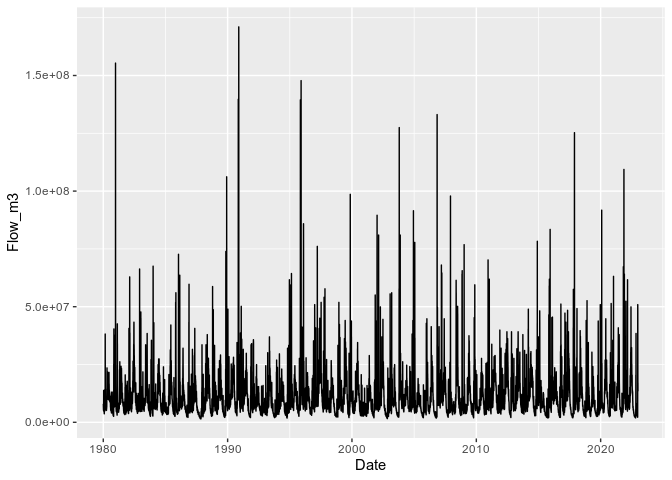
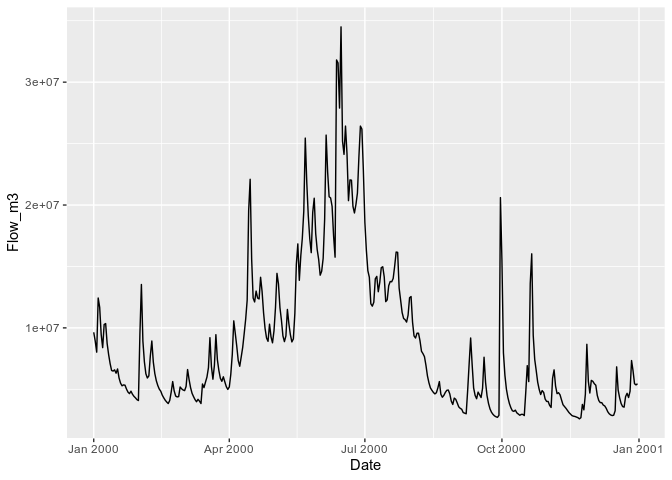
Readme

diff --git a/README.md b/README.md
@@ -26,29 +26,24 @@ Description of the parameters in this dataset can be viewed by calling
 the help `?bf_params_usgs`.
 
 ``` r
-head(bf_params_usgs)
-#>    site_no       AREA        Lb        X1           Wb  POR        ALPHA
-#> 1 01010000 3432960000 42195.004 30268.421    3899.4916 0.15 6.991589e-03
-#> 2 01010070  437760000 22947.464 15020.629 1426149.7464 0.15 4.496731e-09
-#> 3 01010500 6860800000 30622.345 16697.526    4599.4746 0.15 8.809516e-03
-#> 4 01011000 3783680000 24340.048 13850.519    7682.9840 0.15 8.504163e-03
-#> 5 01012515   33280000  7922.068  4911.786     731.9395 0.15 3.732992e-02
-#> 6 01012520    5196800  1997.463  1163.064     226.5779 0.15 1.105229e-02
-#>        BETA           Ks        Kb        Kz     Qthresh          Rs
-#> 1 17.891344 1.202191e+04 1346.6735 0.2265222 653322.0051 -0.11685527
-#> 2 21.445829 1.702129e+13  721.4984 0.1865955 100322.8547 -0.13534568
-#> 3 17.847130 1.170324e+04 1082.3061 0.1736640 638640.6117 -0.13472433
-#> 4  9.946623 7.715101e+03 1227.5351 0.1289749 606830.9261 -0.07401526
-#> 5  6.879007 2.742763e+02  542.6453 0.2205462  16621.7842 -0.08372559
-#> 6  2.208195 9.004372e+02 1368.8208 0.1592777    171.2829 -0.22792486
-#>           Rb1          Rb2        Prec Frac4Rise      Error
-#> 1 -0.06032012 -0.010385333 28873.40697      0.05 0.11905442
-#> 2 -0.06300632 -0.011841823  3425.65845      0.05 0.09712791
-#> 3 -0.05029289 -0.008377966 66511.60578      0.05 0.13351219
-#> 4 -0.03335920 -0.007215571 58192.14953      0.05 0.08186208
-#> 5 -0.07727862 -0.008515741    36.67901      0.05 0.05996996
-#> 6 -0.08109302 -0.008349912    24.46899      0.05 0.17642699
+library(magrittr)
+#library(flextable)
+
+# flextable(tail(bf_params_usgs)) %>% 
+#   colformat_num(big.mark=",", digits = 2, na_str = "N/A") %>% 
+#   autofit()
+
+knitr::kable(tail(bf_params_usgs), digits=2, format.args = list(scientific = FALSE))
 ```
+
+|       | site_no  |      AREA |       Lb |       X1 |      Wb |  POR | ALPHA |  BETA |     Ks |      Kb |   Kz |   Qthresh |    Rs |   Rb1 |   Rb2 |    Prec | Frac4Rise | Error |
+|:------|:---------|----------:|---------:|---------:|--------:|-----:|------:|------:|-------:|--------:|-----:|----------:|------:|------:|------:|--------:|----------:|------:|
+| 13203 | 50148890 | 242176000 | 34713.66 | 26804.42 | 1100.43 | 0.15 |  0.00 | 17.53 |  84.51 | 1520.39 | 0.33 | 269158.88 | -0.35 | -0.08 | -0.01 | 3889.35 |      0.05 |  0.03 |
+| 13204 | 50252000 |   1254400 |  1814.29 |   182.12 |   53.99 | 0.15 |  0.00 |  1.00 |  44.46 |  226.69 | 0.03 |     48.94 | -0.35 | -0.03 |  0.00 |   24.47 |      0.05 |  0.04 |
+| 13205 | 50274000 |   5964800 |  6519.25 |  1406.67 |   43.04 | 0.15 |  0.01 |  2.40 | 641.71 | 1083.45 | 0.05 |     97.88 | -0.35 | -0.04 |  0.00 |   24.47 |      0.05 |  0.05 |
+| 13206 | 50295000 |    947200 |   197.17 |   104.47 | 1037.47 | 0.15 |  0.00 |  1.00 |   1.73 |    3.91 | 0.04 |     48.94 | -0.35 | -0.03 |  0.00 |   24.47 |      0.05 |  0.02 |
+| 13207 | 50333500 |  13824000 |  7495.11 |     2.46 |   69.39 | 0.15 |  0.00 |  1.10 | 530.88 | 1001.58 | 0.01 |    509.93 | -0.76 | -0.33 | -0.33 |   24.47 |      0.05 |  0.00 |
+| 13208 | 50345000 |   5376000 |  3156.42 |   137.89 |   62.39 | 0.15 |  0.00 |  1.06 | 103.10 |  653.17 | 0.00 |     48.94 | -0.20 | -0.03 |  0.00 |   24.47 |      0.05 |  0.08 |
 
 Sites are in rows with identification number in the first column, the 16
 parameters values, and the error for the calibration.
@@ -82,17 +77,6 @@ a single USGS site and calculate the baseflow separation
 ``` r
 
 library(dataRetrieval)
-library(magrittr)
-library(dplyr)
-#> 
-#> Attaching package: 'dplyr'
-#> The following objects are masked from 'package:stats':
-#> 
-#>     filter, lag
-#> The following objects are masked from 'package:base':
-#> 
-#>     intersect, setdiff, setequal, union
-library(ggplot2)
 
 # SAUK RIVER NEAR SAUK, WA
 siteNumber <- "12189500"
@@ -102,8 +86,8 @@ parameterCd <- "00060"  #discharge in cfs
 rawDailyData <- readNWISdv(
   siteNumber,
   parameterCd,
-  startDate = "1980-01-01",
-  endDate = "2023-01-01")
+  startDate = "2000-01-01",
+  endDate = "2000-12-31")
 ```
 
 Rename the columns to ‘friendly’ names and the `bfsep` model requires
@@ -113,19 +97,26 @@ in cfs
 ``` r
 # rename to friendly names and convert to m3/day
 rawDailyData <- renameNWISColumns(rawDailyData) %>% 
-  mutate(Flow_m3 = Flow / 35.3147 * 3600 * 24)
+  dplyr::mutate(Flow_m3 = Flow / 35.3147 * 3600 * 24)
 ```
 
 Plot the data as a quick check
 
 ``` r
+
+library(ggplot2)
+
 ggplot(rawDailyData, aes(x=Date, y=Flow_m3)) +
   geom_line()
 ```
 
 <img src="man/figures/README-unnamed-chunk-5-1.png" width="100%" />
 
-bfsep has helper functions to lookup the parameters for a site
+bfsep has helper functions to lookup the parameters for a site which are
+required for the model. The gage-specific parameters required are the
+basin characteristics (`basin_char()`), groundwater hydrology
+(`gw_hyd()`), and flow parameters (`flow()`). Each of these functions
+takes the USGS gage ID character string as it’s single argument.
 
 ``` r
 
@@ -146,8 +137,24 @@ output the associated error
 
 ``` r
 sep <- bf_sep(qin, dt, timestep, error_basis, basin_char, gw_hyd, flow)
-#> [1] 0.02393696
+#> [1] 0.01406752
 ```
+
+A basic plot of the results:
+
+``` r
+
+sep.plt <- sep %>% 
+  dplyr::select(Date:DirectRunoff.L3) %>% 
+  tidyr::pivot_longer(2:6, names_to = "var", values_to = "Flow_m3/day") 
+
+ggplot(sep.plt, aes(x = Date, y = `Flow_m3/day`, color = var)) +
+  geom_line(show.legend = FALSE) +
+  facet_wrap(~var, ncol=1)
+#> Warning: Removed 2 row(s) containing missing values (geom_path).
+```
+
+<img src="man/figures/README-unnamed-chunk-8-1.png" width="100%" />
 
 # References
 
